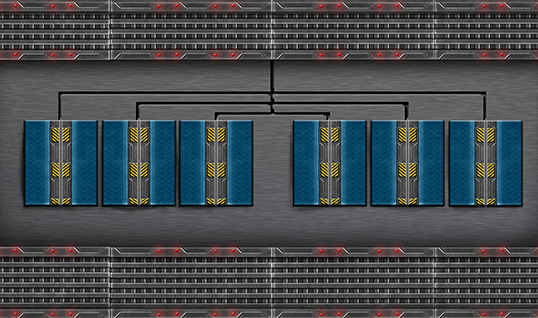
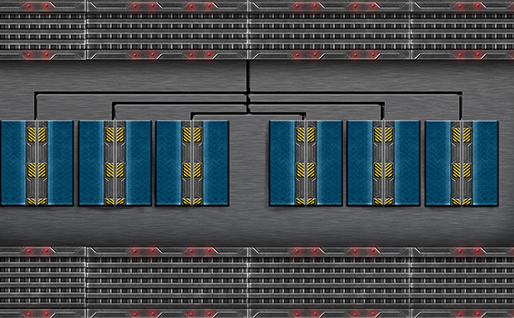
Shipyard screen fixed for 2x.

diff --git a/sc2/src/uqm/shipyard.c b/sc2/src/uqm/shipyard.c
@@ -66,7 +66,7 @@ static const COORD hangar_x_coords_1x[HANGAR_SHIPS_ROW] =
 
 static const COORD hangar_x_coords_2x[HANGAR_SHIPS_ROW] =
 {
-	24, 102, 179, 293, 370, 448
+	0, 78, 155, 269, 346, 424
 };
 
 static const COORD hangar_x_coords_4x[HANGAR_SHIPS_ROW] =
@@ -1270,8 +1270,7 @@ DrawBluePrint (MENU_STATE *pMS)
 			r.corner.y += r.extent.height + (1 << RESOLUTION_FACTOR); // JMS_GFX;
 			DrawPoint (&r.corner);
 			r.corner.y -= r.extent.height;
-			SetContextForeGroundColor (
-					SetContextBackGroundColor (BLACK_COLOR));
+			SetContextForeGroundColor (SetContextBackGroundColor (BLACK_COLOR));
 			DrawFilledRectangle (&r);
 			m = FuelVolume < EXPLORER_FUEL_VOLUME_PER_ROW ?
 					(COUNT)FuelVolume : EXPLORER_FUEL_VOLUME_PER_ROW;
